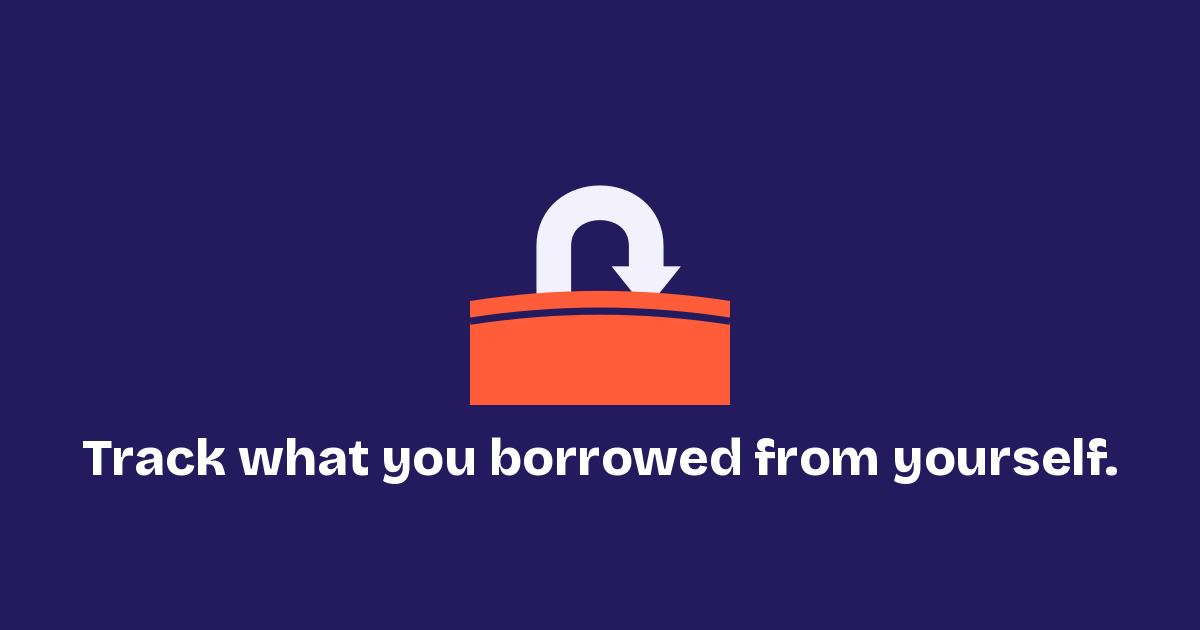
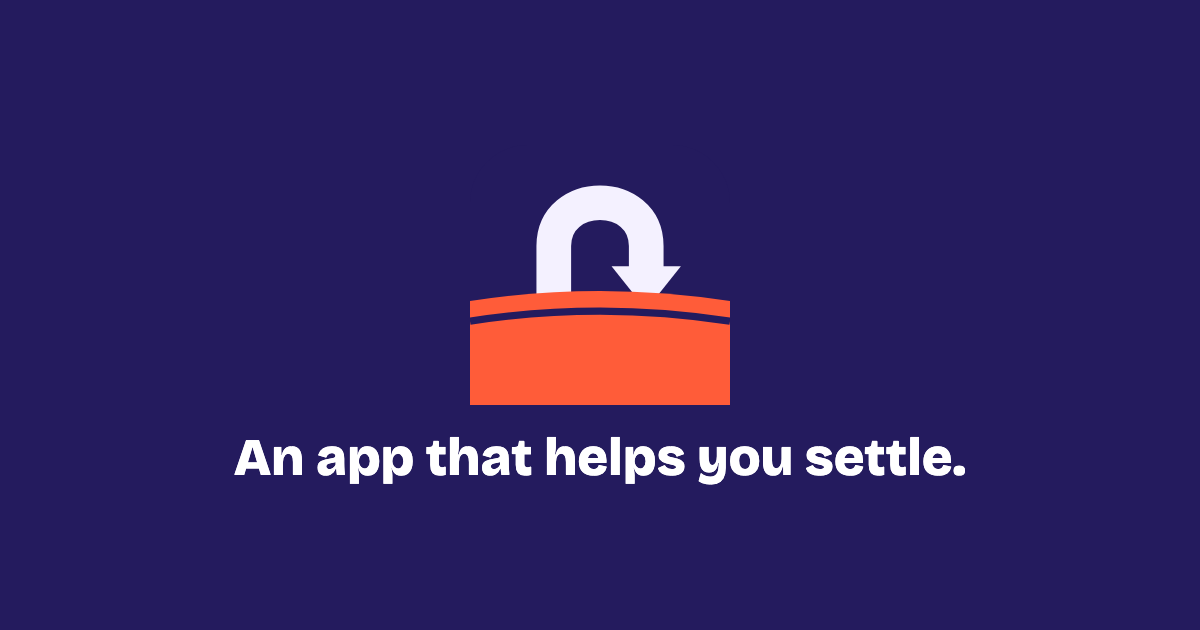
feat(site): the link preview and terminology carry the settle tagline [repocket-site-1fe]
assets/og.png, the 1200x630 link preview every page's og:image and
twitter:image point at, now reads "An app that helps you settle." under
the mark. It had no committed source, so docs/og/og.html is now that
source: the same #241B5E ground, mark.svg at 260px, and white Bricolage
Grotesque 800 at 52px from assets/fonts. With the old line in place it
re-renders the old image to within sub-pixel antialiasing.
scripts/render-og (Python Playwright) writes assets/og.png from it, and
the stack adapter's Generated artifacts section says how to regenerate.
Before and after previews sit with the other QA renders.

The terminology doc's tagline entry reads "An app that helps you
settle.", and a debt is now what one pocket owes another because the
other pocket covered for it, not the result of a wrong-card payment.

Bead: repocket-site-1fe

Changed region(s): [[0.0617, 0.6937, 0.925, 0.7841]]

diff --git a/docs/og/og.html b/docs/og/og.html
@@ -1,0 +1,18 @@
+<!doctype html>
+<html lang="en">
+<head>
+<meta charset="utf-8">
+<title>Repocket link preview (source of assets/og.png)</title>
+<style>
+@font-face{font-family:"Bricolage Grotesque";font-style:normal;font-weight:800;src:url("../../assets/fonts/BricolageGrotesque-800.woff2") format("woff2")}
+html,body{margin:0;padding:0}
+body{width:1200px;height:630px;overflow:hidden;position:relative;background:#241B5E}
+.mark{position:absolute;left:470px;top:145px;width:260px;height:260px}
+h1{position:absolute;left:0;right:0;top:432px;margin:0;text-align:center;color:#fff;font:800 52px/1 "Bricolage Grotesque",sans-serif;white-space:nowrap}
+</style>
+</head>
+<body>
+<img class="mark" src="../../assets/mark.svg" width="260" height="260" alt="">
+<h1>An app that helps you settle.</h1>
+</body>
+</html>

diff --git a/docs/adapters/stack.md b/docs/adapters/stack.md
@@ -22,9 +22,8 @@ URL until a custom domain is added.
 - `index.html`, `privacy.html`, `support.html`, `press.html`, `impressum.html` — the five pages the site ships,
   each self-contained (inline `<style>` and `<script>`, no shared CSS/JS files).
 - `assets/mark.svg` — the app mark used for favicon, nav, footer.
-- `assets/og.png` (may be absent) — 1200×630 link-preview image referenced by `index.html`'s
-  `og:image` meta tag; the brief allows either producing it or removing the meta tag rather
-  than shipping a broken reference.
+- `assets/og.png`: the 1200×630 link preview that every page's `og:image` and `twitter:image`
+  meta tags point at, rendered from `docs/og/og.html` (see **Generated artifacts**).
 - `assets/screens/<locale>/` holds the landing page's phone screens: real app captures from the
   app repo's App Store screenshot pipeline (`home`, `log`, `widget-large`, `all-square`), resized
   to about 2x the drawn phone's rendered width and saved as WebP. English shows `en-US` (US
@@ -120,3 +119,7 @@ locally before trusting the check, per the kit's usual practice:
 
 - **Docs index** — the generated list in `docs/README.md` is built from each doc's frontmatter.
   Regenerate with `scripts/gen-doc-index` after adding or renaming a doc under `docs/`.
+- **Link preview**: `assets/og.png` is a screenshot of `docs/og/og.html` (the mark over the
+  tagline in Bricolage Grotesque 800 at 52px, white on `#241B5E`). Edit the HTML, then run
+  `scripts/render-og` (Python Playwright with its Chromium) to rewrite `assets/og.png` at
+  1200×630, and look at the result before committing.

diff --git a/docs/guide/terminology.md b/docs/guide/terminology.md
@@ -22,14 +22,15 @@ concepts the same way.
 
 - **Repocket**: the product name; iPhone app; free with 3 pockets, $4.99 once for the rest (one-time unlock).
   English copy prices the unlock in US dollars (`$4.99`), German copy in euros (`4,99 €`).
-  Tagline: "Track what you borrowed from yourself." Not "Re-pocket", not "RePocket", not
+  Tagline: "An app that helps you settle." Not "Re-pocket", not "RePocket", not
   "repocket.app" as a name (that is the domain; the app is Repocket).
 
 ## Domain objects (from the app; kept consistent on this site)
 
 - **Pocket** — a single named allocation the user keeps at their bank (e.g. Groceries, Vacation,
   Kids, Home). The primary domain object. Never "envelope", "bucket", "category", or "account".
-- **Debt** — an amount one pocket owes another after a wrong-card payment. Rendered on the app
+- **Debt**: an amount one pocket owes another because the other pocket covered for it (Vacation
+  covers for Groceries, so Groceries owes Vacation). Rendered on the app
   as `<Pocket A> owes <Pocket B> €X.XX since <date>`. Never "loan", "iou", "transaction",
   "expense", "balance".
 - **Log** — the act of recording a debt at the checkout ("paid from Vacation, should have come
